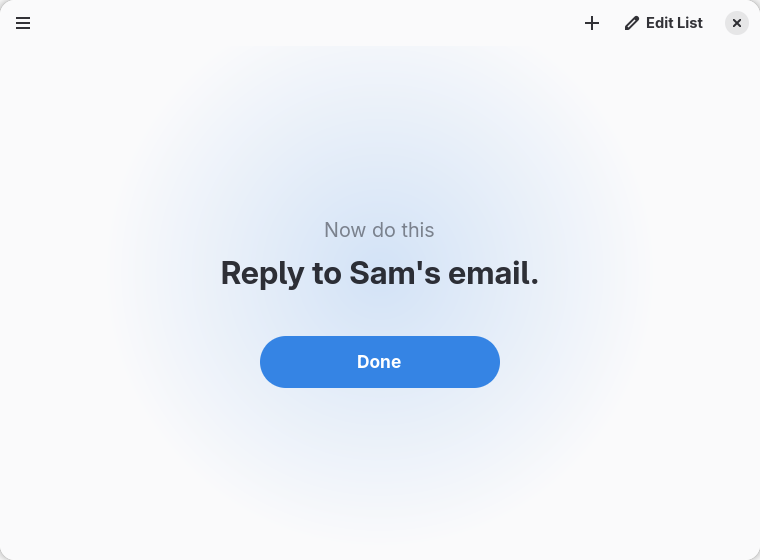
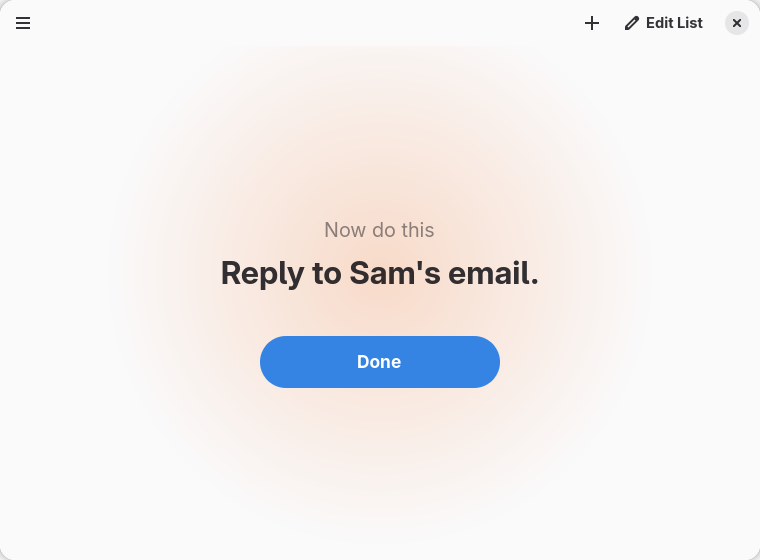
Set the wash opposite the accent
Washing the task in the accent meant the button sitting in the middle of it
dissolved into its own colour. The wash now takes the opposite side of the
wheel, so the two separate: a blue accent gets a warm orange, green gets pink,
purple gets yellow.

The opposite is chosen from Adwaita's palette rather than computed by rotating
the hue, so it is always a colour the desktop already uses, and it follows the
accent if that changes while the app is open.

Changed region(s): [[0.3329, 0.2429, 0.6961, 0.6071], [0.4237, 0.6679, 0.575, 0.7286]]

diff --git a/src/style.css b/src/style.css
@@ -25,14 +25,12 @@
 
 /* A vignette centred on the task, drawing the eye to it rather than decorating
    the window. Built from the user's accent colour so it belongs to their
-   desktop. Built on the background accent rather than the standalone one: this
-   is a background, and the standalone variant is darkened for the light style,
-   which turns the wash grey on white. The class is removed altogether under
-   high contrast, which is handled in window.rs: the media query alone did not
-   take effect here. */
+   desktop. --wash-color is set from window.rs, which picks the colour opposite
+   the accent. The class is removed altogether under high contrast, which is
+   also handled there: the media query alone did not take effect here. */
 .focus-surface {
   background-image: radial-gradient(circle at 50% 44%,
-                                    color-mix(in srgb, var(--accent-bg-color) 20%, transparent) 0%,
+                                    color-mix(in srgb, var(--wash-color) 20%, transparent) 0%,
                                     transparent 58%);
   transition: background-image 800ms cubic-bezier(0.25, 0.46, 0.45, 0.94);
 }

diff --git a/src/window.rs b/src/window.rs
@@ -183,6 +183,20 @@ mod imp {
                 }
             ));
 
+            let wash = gtk::CssProvider::new();
+            wash.load_from_string(&window.wash_css());
+            gtk::style_context_add_provider_for_display(
+                &gtk::gdk::Display::default().expect("a display is open"),
+                &wash,
+                gtk::STYLE_PROVIDER_PRIORITY_APPLICATION,
+            );
+            // The accent can change while the app is open.
+            adw::StyleManager::default().connect_accent_color_notify(clone!(
+                #[weak]
+                window,
+                move |_| wash.load_from_string(&window.wash_css())
+            ));
+
             window.setup_actions();
 
             // A tint behind the text is the first thing someone asking for more
@@ -258,6 +272,32 @@ impl NowdothisWindow {
     }
 
 
+
+    /// The wash sits opposite the accent on the colour wheel, so the button in
+    /// the middle of it stands out instead of dissolving into it. The opposite
+    /// is picked from Adwaita's own palette rather than computed, so the colour
+    /// is always one the desktop already uses.
+    fn wash_css(&self) -> String {
+        let opposite = match adw::StyleManager::default().accent_color() {
+            adw::AccentColor::Blue => adw::AccentColor::Orange,
+            adw::AccentColor::Teal => adw::AccentColor::Red,
+            adw::AccentColor::Green => adw::AccentColor::Pink,
+            adw::AccentColor::Yellow => adw::AccentColor::Purple,
+            adw::AccentColor::Orange => adw::AccentColor::Blue,
+            adw::AccentColor::Red => adw::AccentColor::Teal,
+            adw::AccentColor::Pink => adw::AccentColor::Green,
+            adw::AccentColor::Purple => adw::AccentColor::Yellow,
+            _ => adw::AccentColor::Orange,
+        }
+        .to_rgba();
+
+        format!(
+            ":root {{ --wash-color: rgb({} {} {}); }}",
+            (opposite.red() * 255.0) as u8,
+            (opposite.green() * 255.0) as u8,
+            (opposite.blue() * 255.0) as u8,
+        )
+    }
 
     fn set_vignette(&self, wanted: bool) {
         let surface = self.imp().focus_surface.get();
